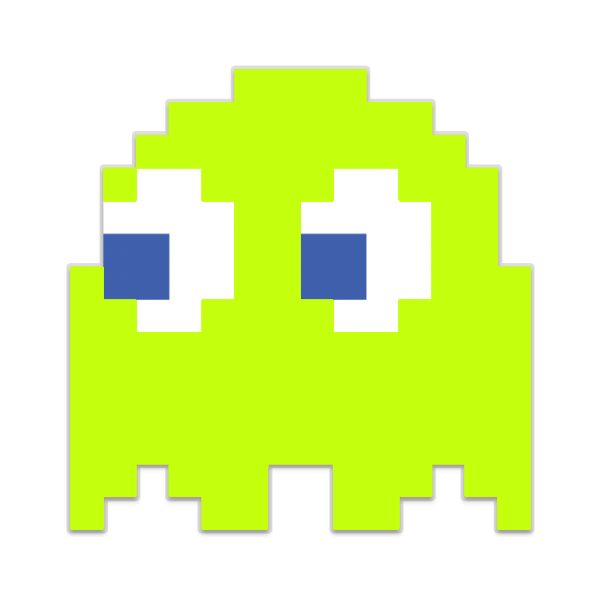
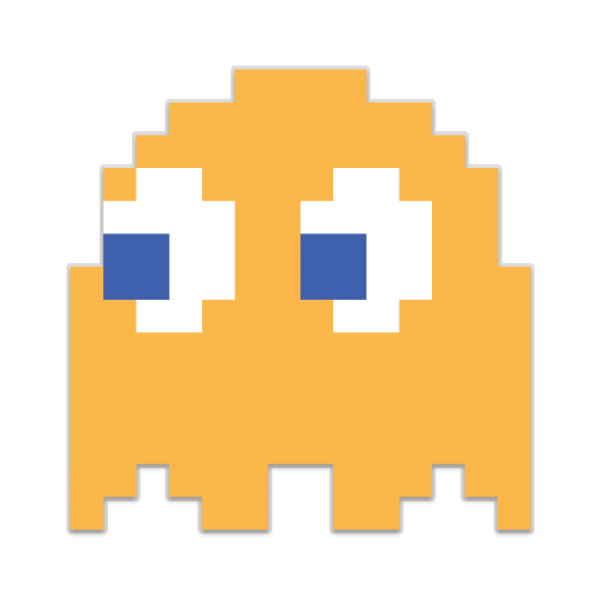
Changement de couleur des monstres quand le player est magique

diff --git a/core/src/fr/ul/pacmasque/util/TexturePack.java b/core/src/fr/ul/pacmasque/util/TexturePack.java
@@ -25,6 +25,7 @@ public class TexturePack {
 		pacman,
 		stone,
 		monster,
+		magicMonster,
 		pastille,
 		treasure,
 		trap,
@@ -45,11 +46,12 @@ public class TexturePack {
 
 		this.resources.put(TypeTexture.pacman, "pacman.png");
 		this.resources.put(TypeTexture.stone, "stone.png");
-		this.resources.put(TypeTexture.monster, "monster.png");
 		this.resources.put(TypeTexture.pastille, "pastille.png");
 		this.resources.put(TypeTexture.treasure, "treasure.png");
 		this.resources.put(TypeTexture.trap, "trap.png");
 		this.resources.put(TypeTexture.magic, "magic.png");
+		this.resources.put(TypeTexture.monster, "monster.png");
+		this.resources.put(TypeTexture.magicMonster, "magicMonster.png");
 		this.resources.put(TypeTexture.teleportation, "teleportation.png");
 	}
 

diff --git a/core/src/fr/ul/pacmasque/entity/BasicMonster.java b/core/src/fr/ul/pacmasque/entity/BasicMonster.java
@@ -49,9 +49,9 @@ public class BasicMonster implements Monster {
 
 		try {
 			// TODO: ajouter une "texture" de fallback en cas de problème de chargement de la texture choisie
-			TexturePack pack = TexturePackFactory.getInstance().getTexturePack("secondpack");
+			TexturePack pack = TexturePackFactory.getInstance().getTexturePack("basepack");
 			this.normalTexture = pack.get(TexturePack.TypeTexture.monster);
-			this.magicTexture = pack.get(TexturePack.TypeTexture.monster);
+			this.magicTexture = pack.get(TexturePack.TypeTexture.magicMonster);
 			this.playerIsMagic = false;
 		} catch (TextureException e) {
 			e.printStackTrace();
